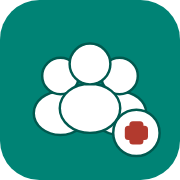
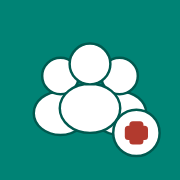
Ajustes de compatibilidad con iPhone (standalone / pantalla de inicio)
1. Cambia el padding-top del header sticky de max(X, env(...)) a
   calc(X + env(...)) para que el notch/barra de estado no se encime con
   el contenido, sumando el respiro visual original en vez de solo
   igualarlo al inset (topbar base, .compact y la variante del media
   query móvil).
2. Fija height explícito (38px / 44px en móvil) a los input[type=date] e
   input[type=time]: Safari iOS los renderiza más altos que los demás
   campos si no se les pone una altura fija, aunque compartan el mismo
   padding.
3. Regenera todos los íconos (apple-touch-icon, icon-192, icon-512,
   favicons) desde un diseño cuadrado de esquina a esquina, sin
   redondeado propio y aplanado a RGB puro sin canal alfa. El ícono
   anterior sí tenía las 4 esquinas fuera del rectángulo redondeado sin
   cubrir (transparencia rellenada como blanco al capturar el PNG), lo
   que iOS habría recortado de forma inconsistente con su propia máscara
   de esquinas — ahora iOS aplica su redondeado sobre una imagen 100%
   opaca sin zonas propias que enmascarar.

Claude-Session: https://claude.ai/code/session_017ndi8a87gs1RCFu3rZpisw

diff --git a/public/index.html b/public/index.html
@@ -122,10 +122,10 @@
     position:sticky; top:0; z-index:30;
     background:var(--surface);
     border-bottom:1px solid var(--border);
-    padding:max(14px, env(safe-area-inset-top)) max(20px, env(safe-area-inset-right)) 0 max(20px, env(safe-area-inset-left));
+    padding:calc(14px + env(safe-area-inset-top)) max(20px, env(safe-area-inset-right)) 0 max(20px, env(safe-area-inset-left));
     transition:padding .15s ease;
   }
-  .topbar.compact{ padding-top:max(6px, env(safe-area-inset-top)); }
+  .topbar.compact{ padding-top:calc(6px + env(safe-area-inset-top)); }
   .topbar.compact .brandblock p,
   .topbar.compact .theme-note{ display:none; }
   .topbar.compact .brandblock h1{ font-size:1.02rem; }
@@ -257,6 +257,8 @@
   }
   .field input:focus, .field select:focus, .field textarea:focus{ outline:2px solid var(--brand); outline-offset:1px; }
   .field textarea{ resize:vertical; min-height:78px; font-family:inherit; }
+  /* Safari iOS renders type=date/time input taller than other fields unless height is pinned */
+  .field input[type=date], .field input[type=time]{ height:38px; line-height:normal; }
   .field-inline-btn{ display:flex; gap:8px; align-items:flex-end; min-width:0; }
   .field-inline-btn .field{ flex:1; min-width:0; }
   .field-inline-btn .btn{ flex:none; }
@@ -455,7 +457,7 @@
     body{ -webkit-text-size-adjust:100%; }
     main{ padding:14px max(12px, env(safe-area-inset-right)) calc(90px + env(safe-area-inset-bottom)) max(12px, env(safe-area-inset-left)); }
     .card{ padding:15px 14px; border-radius:12px; }
-    .topbar{ padding:max(9px, env(safe-area-inset-top)) max(12px, env(safe-area-inset-right)) 0 max(12px, env(safe-area-inset-left)); }
+    .topbar{ padding:calc(9px + env(safe-area-inset-top)) max(12px, env(safe-area-inset-right)) 0 max(12px, env(safe-area-inset-left)); }
     .topbar-row{ align-items:center; gap:10px; }
     .brandblock h1{ font-size:1.05rem; }
     .brandblock p, .theme-note, .logo-block{ display:none; }
@@ -479,6 +481,7 @@
     .field input[type=text], .field input[type=number], .field input[type=date],
     .field input[type=time], .field input[type=email], .field input[type=url], .field select, .field textarea,
     .mobile-jump select{ font-size:16px; padding:11px 12px; min-height:44px; }
+    .field input[type=date], .field input[type=time]{ height:44px; }
     .tab-btn{ min-height:44px; }
     .radio-pill label{ min-height:44px; display:flex; align-items:center; font-size:0.88rem; padding:9px 13px; }
     .radio-row{ gap:8px; }
